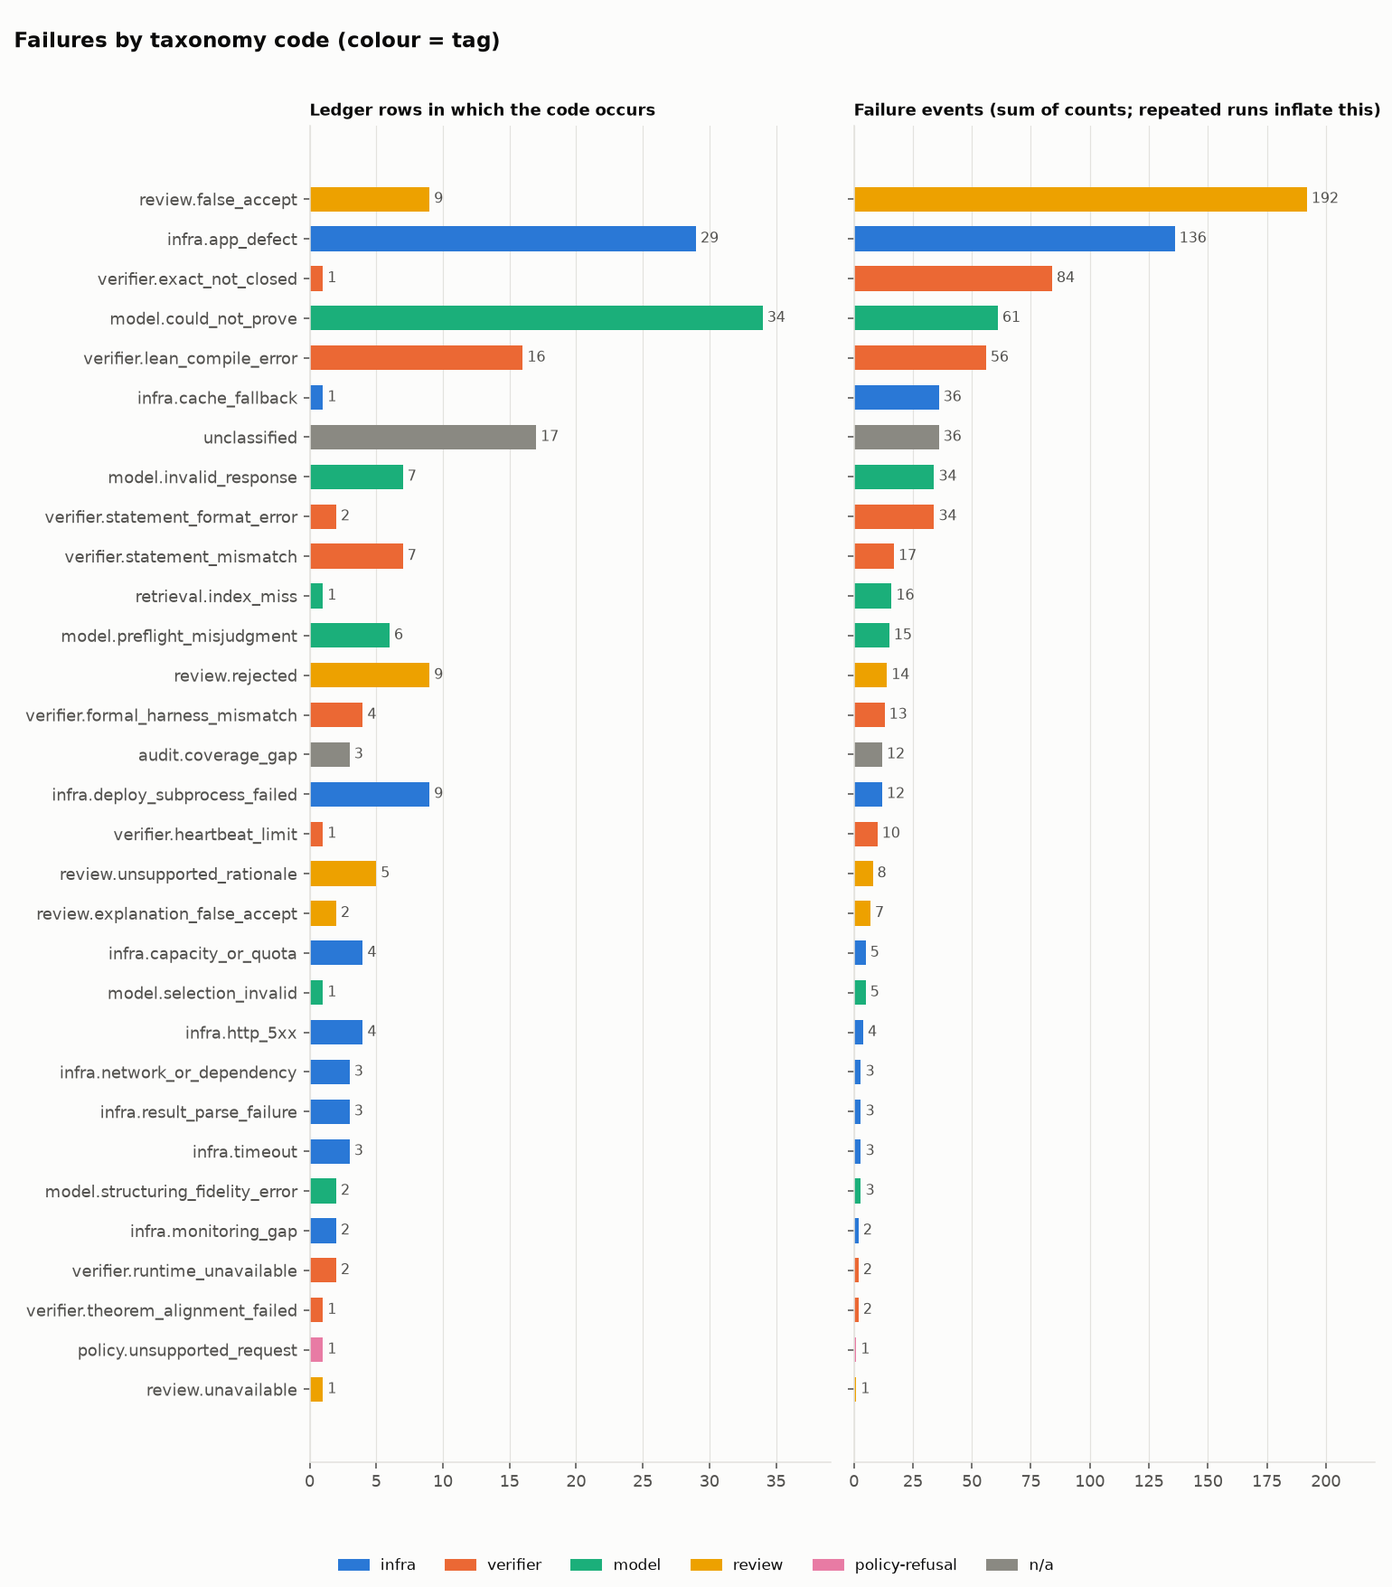
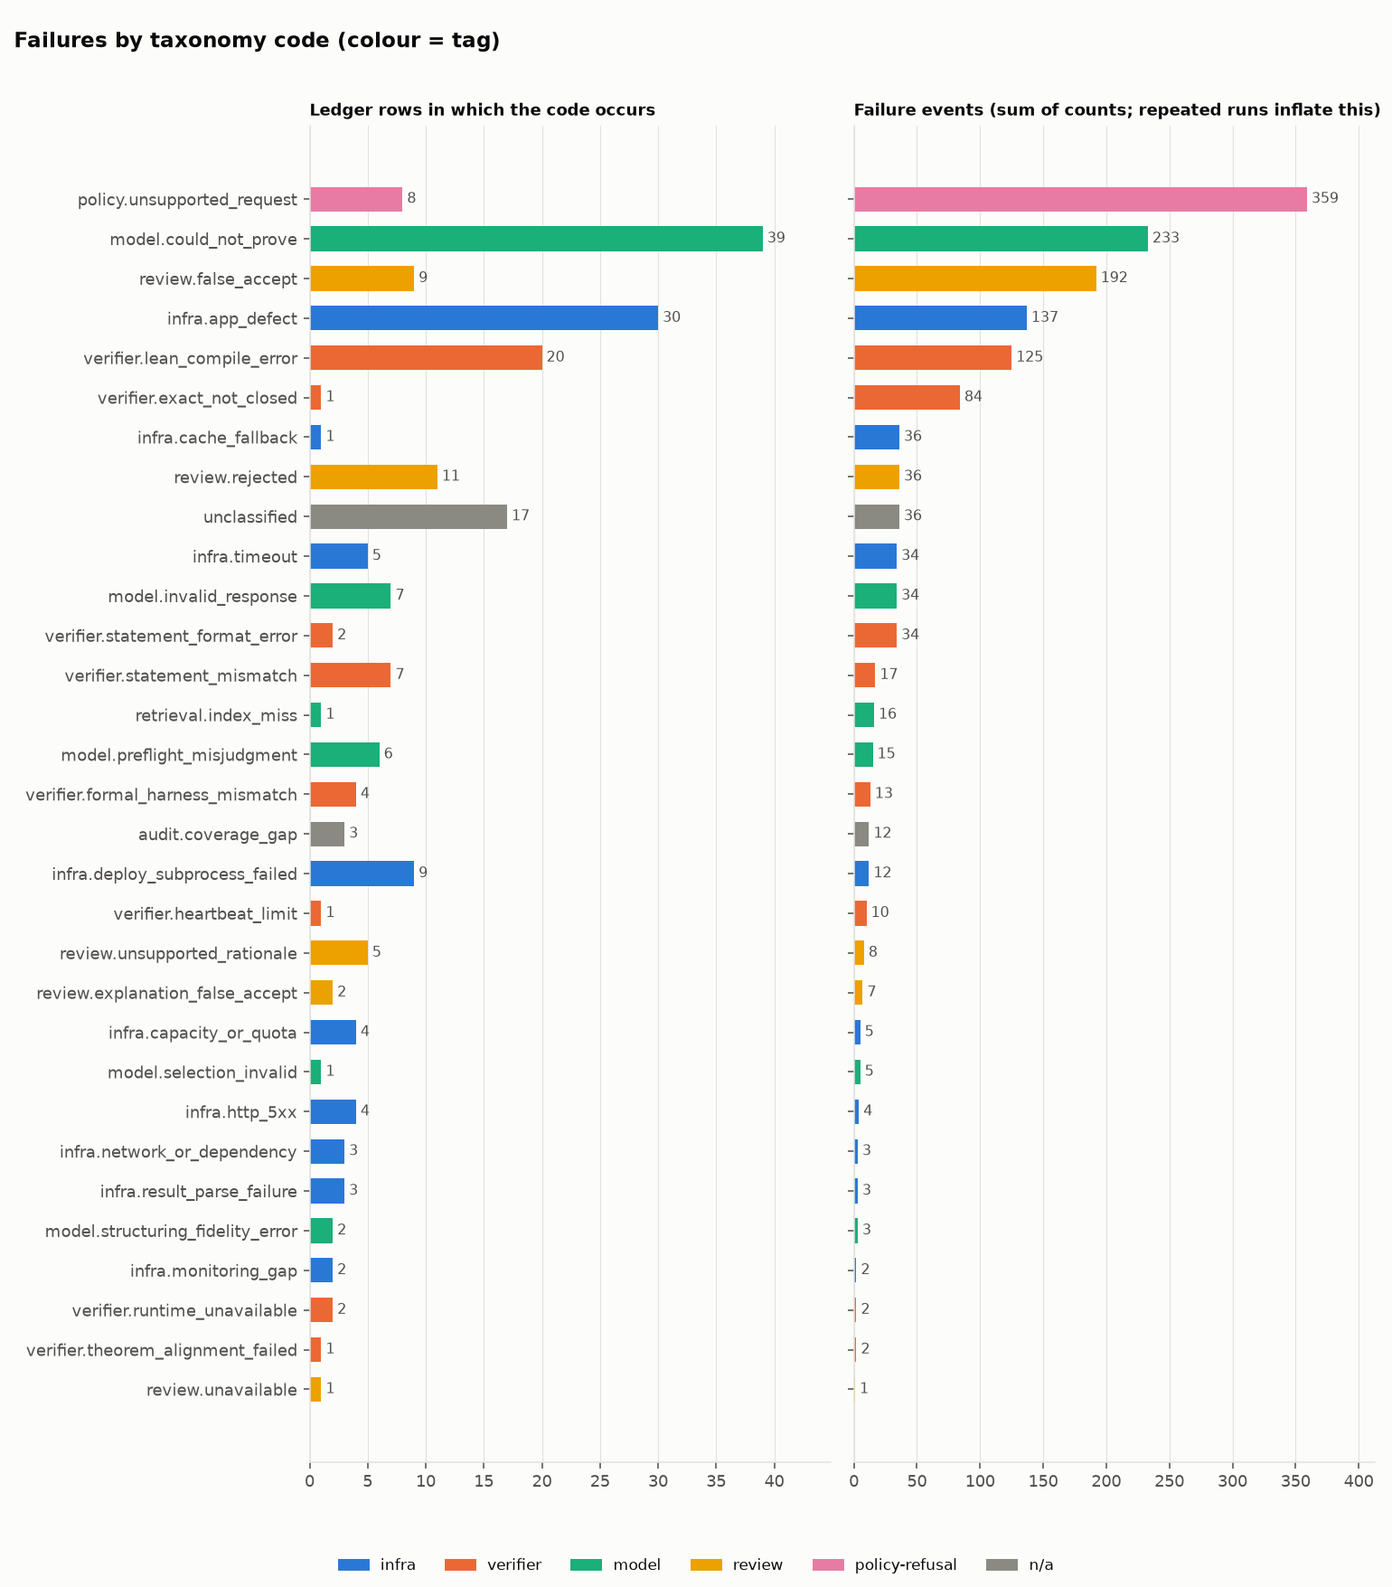
docs: レビュー指摘への対応(失敗の分類、数値の条件と訂正の参照、説明文の欠陥、KPI 行の分割)

diff --git a/docs/improvement-journal/kpi-timeline.md b/docs/improvement-journal/kpi-timeline.md
@@ -44,11 +44,13 @@
 | 2026-11-10 | プロンプト4フラグの初回実測（Terra medium、tuning 28題/12題、US$2.33）: prefix キャッシュは hit 0（共通 prefix の対照も0）、束ねた腕の初回コンパイルは 20/28 同数・Tier 2 の最終成功は 11/12 同数で、検出できる差なし。出力は約15%短く生成は約3秒速いが、full import で Lean 検査が約2秒遅く、合計時間は同等。構造化欄は28/28で読めた | [prompt-flag-first-measurement](entries/2026-11-10-prompt-flag-first-measurement.md) |
 | 2026-11-10 | Mathlib Archive/Counterexamples 113ファイルを既定プロファイルでコンパイル、公理確認（モデル0回） | Lean 4.32.0-rc1、Mathlib 8b62164、Leanは1プロセス | 113/113コンパイル、1,378 theoremの公理は標準3つのみ（sorryAx 0） | 未集計（1ファイル中央値2秒、合計267秒） | 0ドル | [library-manifest-archive-pilot](entries/2026-11-10-library-manifest-archive-pilot.md) |
 | 2026-11-11 | 一般形 Recipe を Lean の単一化で具体化する lane(pals-agent#106、既定 off、モデル0回)。評価セットは fixtures で 0/100、元カード由来の未公開 Recipe を足して 7/100(恒等のみ)、探針は 2/15 から 15/15、時間 p50 約5秒(Lean 起動が床) | [general-recipe-lane](entries/2026-11-11-general-recipe-lane.md) |
-| 2026-11-11 | Mathlib を書庫にする自動化ポートフォリオ(pals-agent#106、既定 off)と形式化1回(費用 推計 0.0087 ドル)。温(常駐 Lean)で100題中47題(元カード由来の7題を除くと40題)、1題あたり p50 0.6 秒。冷は起動が床で約4秒。形式化の忠実さは1題の誤りを検出 | [portfolio-lane](entries/2026-11-11-portfolio-lane.md) |
+| 2026-11-11 | Mathlib を書庫にする自動化ポートフォリオ(pals-agent#106、既定 off)と形式化1回(費用 推計 0.0087 ドル)。温(常駐 Lean)で100題中47題を Lean が証明(元カード由来の7題を除くと40題。形式命題が依頼より弱い1題を含むので、既知の不一致がないのは最大46題、除くと最大39題)。時間は Lean のポートフォリオ段だけで答えた題の1題あたり p50 0.6 秒、形式化の呼び出しを含む24題は端から端まで p50 4.4 秒、p90 6.8 秒。冷は起動が床で約4秒。形式化の忠実さは1題の誤りを検出 | [portfolio-lane](entries/2026-11-11-portfolio-lane.md) |
 | 2026-11-11 | 段階0(pals-agent#106、既定 off): 2通りの形式化の一致+意味審査+構造語の表の関所、モデルなしの説明ひな形。100題で26題を10秒以内に回答(最大 9.4 秒)、誤答0(1人の確認)、62題は通常のパイプラインへ。関所の前は誤答1(斜体に `Field`)。`exact?` の冷起動の原因は索引構築(約12〜15 秒)と確認 | [stage0-gate](entries/2026-11-11-stage0-gate.md) |
-| 2026-11-11 | 段階0の独立レビュー対応(pals-agent#106、895eb1a): 拒否リスト方式の検証器が許していた任意コード実行を、許可リスト文法とローカルのサンドボックスで修正。100題は 21題を10秒以内に回答(最大 9.2 秒、誤答0)、72題は通常のパイプラインへ。往復検査は敵対的9題を 9/9 拒否(意味審査は斜体に Field を見逃し)。被覆は 26題から 21題に低下 | [stage0-security-fixes](entries/2026-11-11-stage0-security-fixes.md) |
-| 2026-11-11 | 段階0の被覆拡大(pals-agent#106、02adebd): 往復検査(2回版 偽の承認 0/38・偽の却下 5/80)、計算・可否の経路(値は Lean が作り再証明)、実験 PR の closer(48題で正例 38/38)、安全な正規化。100題は負荷 15〜20 で 18題を回答(10秒以内 15、誤答0)。形式化が空だった14題の回収は 0 | [stage0-coverage](entries/2026-11-11-stage0-coverage.md) |
-| 2026-11-11 | 段階0の独立レビュー(2回目)対応(pals-agent#106、405f144): 2層の許可リスト、新しいプロセスでの再検査、RSS/CPU 監視、リクエストごとの新しいワーカー。100題は負荷 15〜33 で 12題を回答(前回 18、最大 10.3 秒、誤答0)。被覆の低下は負荷・起動の競合・`exact?` 除外を分離できていない | [stage0-review2](entries/2026-11-11-stage0-review2.md) |
+| 2026-11-11 | 段階0の独立レビュー対応(pals-agent#106、895eb1a): 拒否リスト方式の検証器が許していた任意コード実行を、許可リスト文法とローカルのサンドボックスで修正。100題は 21題を10秒以内に回答(最大 9.2 秒、形式命題の誤答0。ただし説明文の欠陥が4題ある。生データと stage0-security-fixes に記録)、72題は通常のパイプラインへ。往復検査は敵対的9題を 9/9 拒否(意味審査は斜体に Field を見逃し)。被覆は 26題から 21題に低下 | [stage0-security-fixes](entries/2026-11-11-stage0-security-fixes.md) |
+| 2026-11-11 | 段階0の往復検査(pals-agent#106、02adebd): 2回版 偽の承認 0/38・偽の却下 5/80、1回版 0/38・7/80(`reasoning: none` は偽の却下 30/80)。既定は2回版+審査 | [stage0-coverage](entries/2026-11-11-stage0-coverage.md) |
+| 2026-11-11 | 段階0の closer 探針(48題、正例38・否定10): 正例 38/38(実験の 10/38、取り込み前の本レーン 25/38)、否定 8/10 を却下(残る2つは真の命題)。計算・可否の経路は形式化が空だった14題の回収 0 | [stage0-coverage](entries/2026-11-11-stage0-coverage.md) |
+| 2026-11-11 | 段階0の100題通し(02adebd、負荷 15〜20): 18題を回答(10秒以内 15)、形式命題の誤答 0(説明文の欠陥は別)。前回の21題から減った。負荷は仮説で、低負荷の被覆は不明 | [stage0-coverage](entries/2026-11-11-stage0-coverage.md) |
+| 2026-11-11 | 段階0の独立レビュー(2回目)対応(pals-agent#106、405f144): 2層の許可リスト、新しいプロセスでの再検査、RSS/CPU 監視、リクエストごとの新しいワーカー。100題は負荷 15〜33 で 12題を回答(前回 18、最大 10.3 秒、形式命題の誤答0。説明文の欠陥が4題あり、説明つきの正答は最大8題)。被覆の低下は負荷・起動の競合・`exact?` 除外を分離できていない | [stage0-review2](entries/2026-11-11-stage0-review2.md) |
 | 2026-11-11 | Settings select chevron spacing: 5px → 17px visible inset in two local layouts; no answer-speed, accuracy or cost claim | [settings-select-chevron](entries/2026-11-11-settings-select-chevron.md) |
 | 2026-11-11 | T2 生成レーン（No-Sketch・2候補競争・パッチ修復・並列説明、既定 off）。検証までの時間 p50 68.8→54.2 s、回答完成 p50 85.4→61.5 s。p50 30 s には未到達。n=14、1回、端末高負荷 | [t2-lane-first-measurement](entries/2026-11-11-t2-lane-first-measurement.md) |
 | 2026-11-11 | T2 の5腕再測定（負荷15前後）: 並列レビュー・説明（nd_k2_par）は回答完成 p50 55.8→39.5 s だが nd_k2 と区別できない（n=14）。テンプレート＋補完は退行（最終成功 13→11/14、修復 6→20、費用 +68%）。Lean枠1は差なし。初回成功 7→13/14 は再現 | [t2-five-arm-measurement](entries/2026-11-11-t2-five-arm-measurement.md) |

diff --git a/docs/improvement-journal/entries/2026-11-11-stage0-review2.md b/docs/improvement-journal/entries/2026-11-11-stage0-review2.md
@@ -11,9 +11,9 @@
 | 前回(共有ワーカー、負荷 15〜20) | 18 | 与えられた命題 11、形式化 7 |
 | 1回目 | 4 | 自分の不具合(共有ワーカーが終了後に再起動されず26題がエラー) |
 | 2回目(新しいワーカー、先読みなし) | 11 | 形式化 0。起動で予算を使い切り、`Nat.gcd` を拒否した 3題 |
-| **3回目(先読み、`Nat.gcd` 修正)** | **12** | 与えられた命題 11、形式化 1。誤答 0、最大 10.3 秒 |
+| **3回目(先読み、`Nat.gcd` 修正)** | **12** | 与えられた命題 11、形式化 1。形式命題の誤答 0(説明文の欠陥は別。下)、最大 10.3 秒 |
 
-  3回目: 答えた 12(easy 3、medium 5、hard 4)、検証済み・説明にモデル 3、通常のパイプラインへ 85。厳しい文法で失った題は1題(`∑ i in …` の旧構文)。
+  3回目: 答えた 12(easy 3、medium 5、hard 4)、検証済み・説明にモデル 3、通常のパイプラインへ 85。厳しい文法で失った題は1題(`∑ i in …` の旧構文)。**「誤答 0」は形式命題の評価だけ。答えた12題のうち `scheme-M03`・`scheme-M10`・`scheme-M13` は説明文が `error(lean.unknownIdentifier)` を定理として載せ、`commalg_modules_exact_id_zero` は任意の環と加群の命題を「すべて数値」と説明する(`stage0.jsonl`)。説明の欠陥は未修正で、説明つきの正答は最大 8 題。**
 - 判断: 安全性の修正は採用(既定 off)。被覆は 18 → 12 で、負荷(最大 33)・起動の競合・`exact?` の除外の影響を分離できていない。**被覆が保たれたとは言えない。**
 - 発見した欠陥: 許可リストが `@[extern]` の定数(`Nat.gcd`)を拒否していた(実 Lean の通しで発見、拒否の根拠から外した)。共有ワーカーの再起動漏れ(自分の変更)。
 - 限界・未確認: 低負荷の測定がない。実 Lean のテストは CI で動かない(ローカルのみ)。許可リストの 105 種は手作業の確認で、第三者の確認は未実施。macOS のサンドボックスだけで封じているもの(許可リストを通った命題による elaborate 中の資源消費、許可リストの穴が見つかった場合の最後の砦)は、本番の Landlock・seccomp・cgroup ではない。

diff --git a/docs/improvement-journal/entries/2026-11-11-stage0-security-fixes.md b/docs/improvement-journal/entries/2026-11-11-stage0-security-fixes.md
@@ -16,7 +16,7 @@
 | 形式化2回+関所 | 58 | 7 | 4 | 47 |
 | 計 | 100 | 21 | 7 | 72 |
 
-  答えた21題は全部10秒以内(p50 2.7 秒、p90 8.6 秒、最大 9.2 秒)。誤答 0件(筆者1人の確認)。難度別 easy 4/25、medium 13/50、hard 4/25。通常のパイプラインへ回した題の待ちは p50 4.7 秒、p90 12.0 秒、最大 20.2 秒。負荷平均 20〜30 の実行は 21題中 19題が10秒以内(最大 11.1 秒)。推計費用 0.033 ドル。
+  答えた21題は全部10秒以内(p50 2.7 秒、p90 8.6 秒、最大 9.2 秒)。誤答 0件(筆者1人の確認)。**この「誤答 0」は、検証された命題が依頼と食い違わないことだけを指す。答えた21題のうち4題は説明文が誤り(`scheme-M03`・`scheme-M10`・`scheme-M13` は定理の説明として Lean の `error(lean.unknownIdentifier)` を載せ、`commalg_modules_exact_id_zero` は任意の環と加群の命題を「すべて数値」と説明する。生データ `stage0-e2e-after-fixes.jsonl`)。説明の欠陥は修正前の実行にも同じ形である。説明の経路は未修正で、説明つきの正答としては数えない。**難度別 easy 4/25、medium 13/50、hard 4/25。通常のパイプラインへ回した題の待ちは p50 4.7 秒、p90 12.0 秒、最大 20.2 秒。負荷平均 20〜30 の実行は 21題中 19題が10秒以内(最大 11.1 秒)。推計費用 0.033 ドル。
   修正前(26題)から5題減った理由: 形式化が空になった題 14(計算・可否・理由の依頼は空を返させた)、往復検査が時間内に終わらず却下 9、許可リストで失った題 2(`let`、変数名 `λ`)、`autoImplicit` を切って elaborate できなくなった題 2。
   敵対的9題: 意味審査 8/9(斜体に `Field` は見逃し)、一致検査 9/9、構造語の表 該当2/2、**往復検査 9/9**(忠実な命題の偽の却下 1/9)。往復検査は形式化経路の答えを 11題から 7題に減らす(逐次2回のモデル呼び出しで予算に収まらない)。
 - 判断: 採用(既定 off)。被覆を安全と引き換えにした。往復検査を速く(比較との並行化、1回にまとめる)すれば、形式化経路の答えを戻せる見込みで、未実装。

diff --git a/docs/quality-ledger/taxonomy.md b/docs/quality-ledger/taxonomy.md
@@ -99,3 +99,18 @@
 - **通知しない**: `policy.*` の正規の拒否、`verifier.exact_not_closed`、`audit.coverage_gap`。
 - 「台帳での行数 / 件数」は、重複を除いた行のうち`overlap_with`が空のものを数えた、2026-11-04時点の値です。件数は同じ質問を繰り返した実行も数えるため、行数と一緒に読みます。
 - 2026-11-05に説明QA用の2コードを追加しました。これらはCloudWatchの送信Schemaや運用アラームへ自動追加するものではありません。過去の`unclassified`行は当時の採点記録として保持し、新しい反復評価から使います。
+
+## 2026-11-11 の lane・ポートフォリオ・段階0の行の対応づけ
+
+`failures_raw_json` の語を、次のコードに数えました(`failures_json` に入れています)。レーンが対象外として何も答えなかったものは障害でなく `policy.unsupported_request`、それ以外は上の定義に最も近いコードです。
+
+| 出典の語 | コード | 理由 |
+|---|---|---|
+| `request_not_a_plain_proposition`、`explain_request`、`no_honest_template`、`statement_refused_by_lean_check`、`grammar_no_parse`、`language_filter`、`no_formal_statement_without_model`、`no_exact_profile_and_grammar_inert` | `policy.unsupported_request` | レーンの設計上の対象外で、通常のパイプラインへ回った(障害ではない) |
+| `lean_rejected_all`、`statement_not_elaborated` | `verifier.lean_compile_error` | Lean が命題を受け付けなかった |
+| `no_attempt_succeeded` | `model.could_not_prove` | 自動化の全試行で閉じなかった(モデル呼び出しはない。最も近いコード) |
+| `budget_exhausted` | `infra.timeout` | 時間の予算を使い切った |
+| `fidelity_gate_failed` | `review.rejected` | 関所(意味審査)が却下した |
+| `stage0_error` 2件 | `infra.app_defect` 1、`infra.timeout` 1 | 出典の記録: ワーカー関連の `RuntimeError` 1、`TimeoutError` 1 |
+
+`2026-11-11-recipe-lane-probes-baseline` の `grammar_no_parse` と `language_filter` は1題に重なるので、件数の合計は失敗題数を超える。

diff --git a/docs/improvement-journal/entries/2026-11-11-stage0-coverage.md b/docs/improvement-journal/entries/2026-11-11-stage0-coverage.md
@@ -12,7 +12,7 @@
 | 形式化+関所 | 58 | 7 | 4 | 47 |
 | 計 | 100 | 18 | 7 | 75 |
 
-  10秒以内 15、30秒以内 18(最大 11.0 秒)、p50 4.2 秒、p90 10.7 秒。誤答 0(筆者1人の確認)。難度別 easy 4/25、medium 10/50、hard 4/25。推計費用 0.039 ドル。前回(21題)より減ったのは負荷(予算 6 秒を使い切った与えられた命題 13、往復検査が返らず却下 7)で、低負荷の被覆の下限。
+  10秒以内 15、30秒以内 18(最大 11.0 秒)、p50 4.2 秒、p90 10.7 秒。形式命題の誤答 0(筆者1人の確認。説明文の欠陥 `scheme-M03`・`scheme-M10`・`scheme-M13` などは別で、[stage0-security-fixes](2026-11-11-stage0-security-fixes.md) に記録)。難度別 easy 4/25、medium 10/50、hard 4/25。推計費用 0.039 ドル。前回(21題)より減った。負荷が一因と見ているが仮説で、分離はできていない(予算 6 秒を使い切った与えられた命題 13、往復検査が返らず却下 7。低負荷の測定がないので、低負荷での被覆は不明)。
   往復検査: 審査 偽の承認 3/38・偽の却下 0/80・p50 4.3 秒。2回版 0/38・5/80・p50 6.0 秒(p90 8.2)。1回版 0/38・7/80・p50 3.8 秒(別の実行で斜体に `Field` を2/2通した)。`reasoning: none` は偽の却下 30/80。既定は2回版+審査。
   計算・可否の経路: 実 Lean で 8 つの式の値を導出し再証明(誤った値は落ちる)。形式化が空だった14題からの回収は 0(explain 5、decide 5で答えた 0、残りは `prove` と分類され証明できず、`compute` と分類された依頼は 0)。
   closer: 48題で正例 38/38(実験の 10/38、取り込み前の本レーン 25/38)、否定 8/10 を却下(残る2つは真の命題)。前段の探針は 15/15、負の対照 3/3。

diff --git a/docs/improvement-journal/entries/2026-11-11-general-recipe-lane.md b/docs/improvement-journal/entries/2026-11-11-general-recipe-lane.md
@@ -13,7 +13,7 @@
 | 評価セット、新 lane、fixtures のみ | 100 | 0(形式命題なし58、命題でない7、Lean 却下35) | — |
 | 評価セット、新 lane、+ recovered(未公開82) | 100 | 7(いずれも元カードと命題が同一。easy 1/25、medium 4/50、hard 2/25) | p50 4.8 秒、p90 5.7 秒(Lean 約4.8秒、選択と組み立ては合計3 ms 未満) |
 | 探針(テスト専用)、ベース | 15(+負の対照3) | 2(文法の解析失敗12、言語フィルタ4) | 4.9–5.9 秒(+独立審査のモデル1回、未測定) |
-| 探針、新 lane | 15(+負の対照3) | 15(負の対照は0受理) | p50 5.5 秒、p90 6.9 秒、最大 7.1 秒 |
+| 探針、新 lane | 15(+負の対照3) | 15(負の対照は0受理) | **訂正後: p50 5.2 秒、p90 6.0 秒、最大 7.0 秒**(error 検査の追加後の再測定。当初の記録は p50 5.5 秒、p90 6.9 秒、最大 7.1 秒で、生データは再測定値に差し替えた。訂正は [portfolio-lane](2026-11-11-portfolio-lane.md) の「訂正の参照」) |
 
   誤答(依頼と違う命題の受理)は0件。構造の異なる系統として、合成関数の連続性(高階単一化と `fun_prop`)、一般の可換環から `ZMod 7` と `ℤ`、仮説つきの順序(`norm_num` で前提を閉じる)、集合の包含を実 Lean の統合テストで確認した。
 - 判断: 採用(既定 off の機構として)。ただし、評価セットの被覆は fixtures で 0/100。7/100 は元カードの Recipe による恒等の具体化で、汎化の証拠ではない。

diff --git a/docs/improvement-journal/entries/2026-11-11-portfolio-lane.md b/docs/improvement-journal/entries/2026-11-11-portfolio-lane.md
@@ -10,7 +10,7 @@
 |---|---|---|---|
 | ベース | 0 | 1 | 1 |
 | 冷 | 12(ポートフォリオ5+Recipe7) | 17 | 29 |
-| 温 | 23(ポートフォリオ16+Recipe7) | 24 | 47(Recipe の7題を除くと 40) |
+| 温 | 23(ポートフォリオ16+Recipe7) | 24 | 47(Recipe の7題を除くと 40)。**47 は「Lean が証明した形式命題の数」で、依頼に忠実な答えの数ではない。下の「忠実さ」のとおり1題が依頼より弱いので、既知の不一致がないのは最大 46(Recipe を除くと最大 39)** |
 
   難度別(温、Recipe の恒等を除く): easy 12/25、medium 21/50、hard 7/25。時間(温、答えたポートフォリオの題、1題あたり): p50 0.58 秒、p90 1.8 秒、最大 4.6 秒。冷は p50 4.0 秒(起動を除くと 0.44 秒)。形式化の呼び出し p50 4.1 秒、p90 6.7 秒。形式化+自動化(24題)は p50 4.4 秒、p90 6.8 秒。費用: 形式化 推計 0.0087 ドル。
 - 判断: 採用(既定 off の機構として)。常駐の検証器が前提。冷の1題あたり 4 秒は Lean の起動が床。
